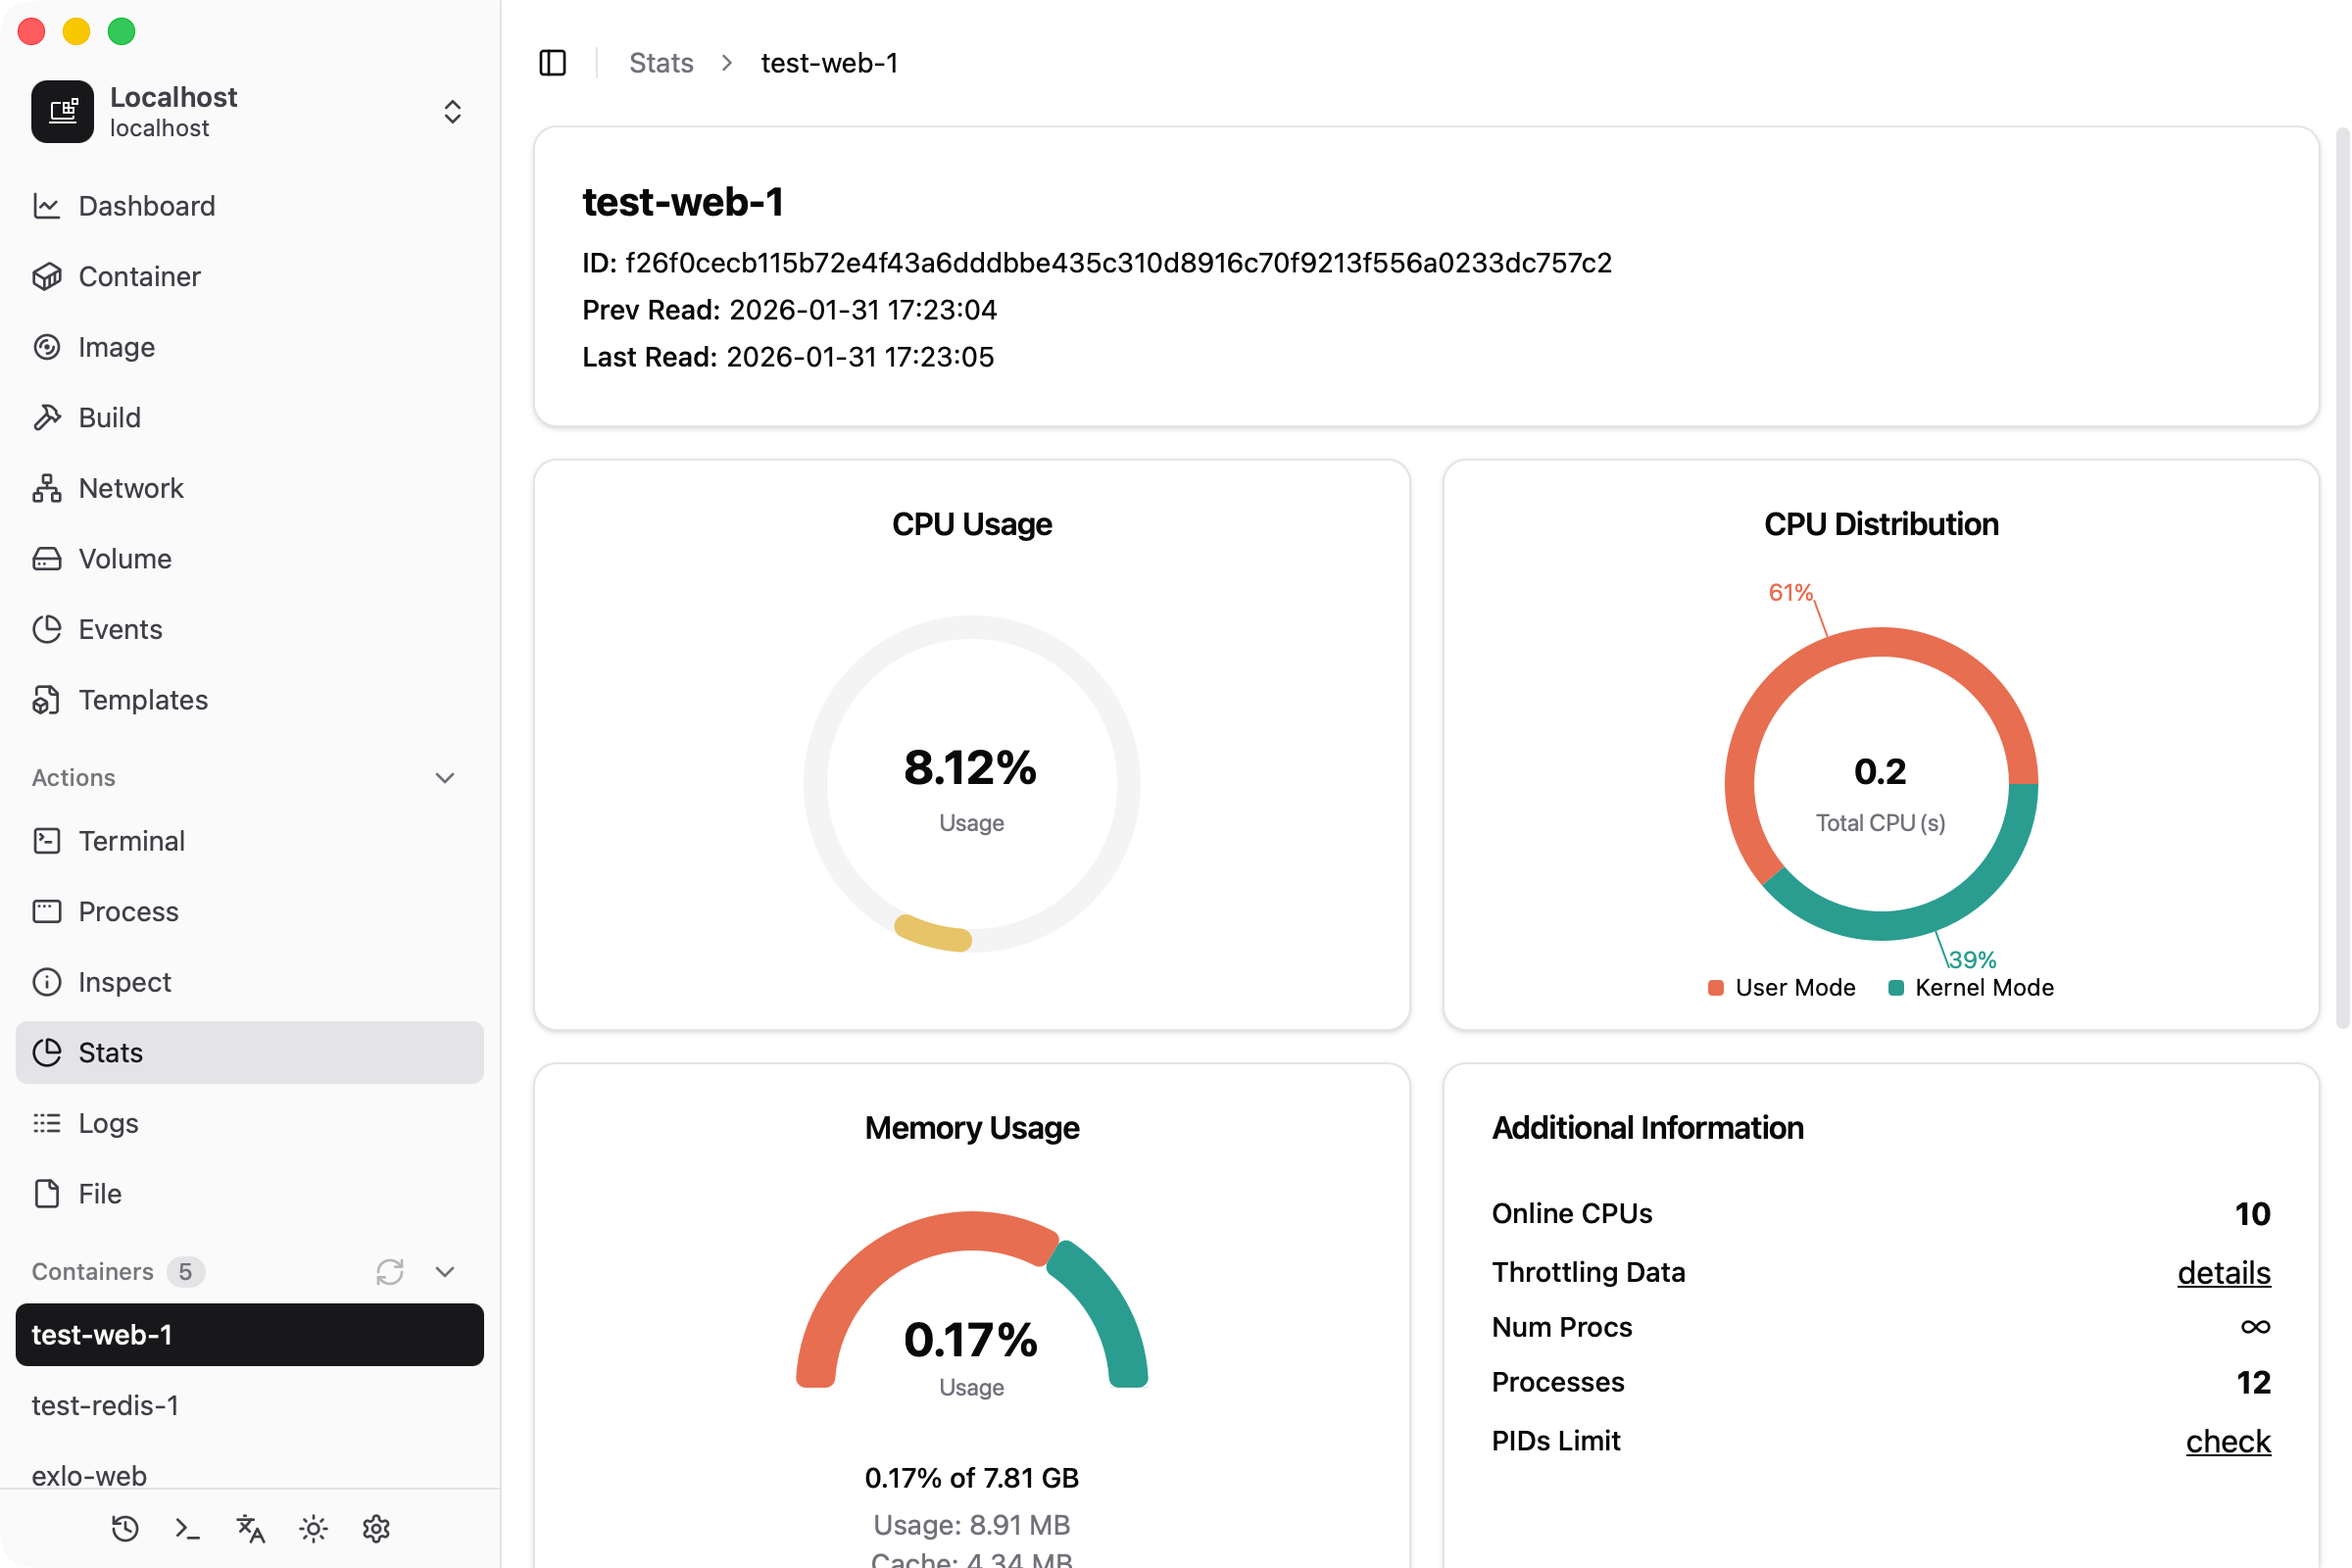
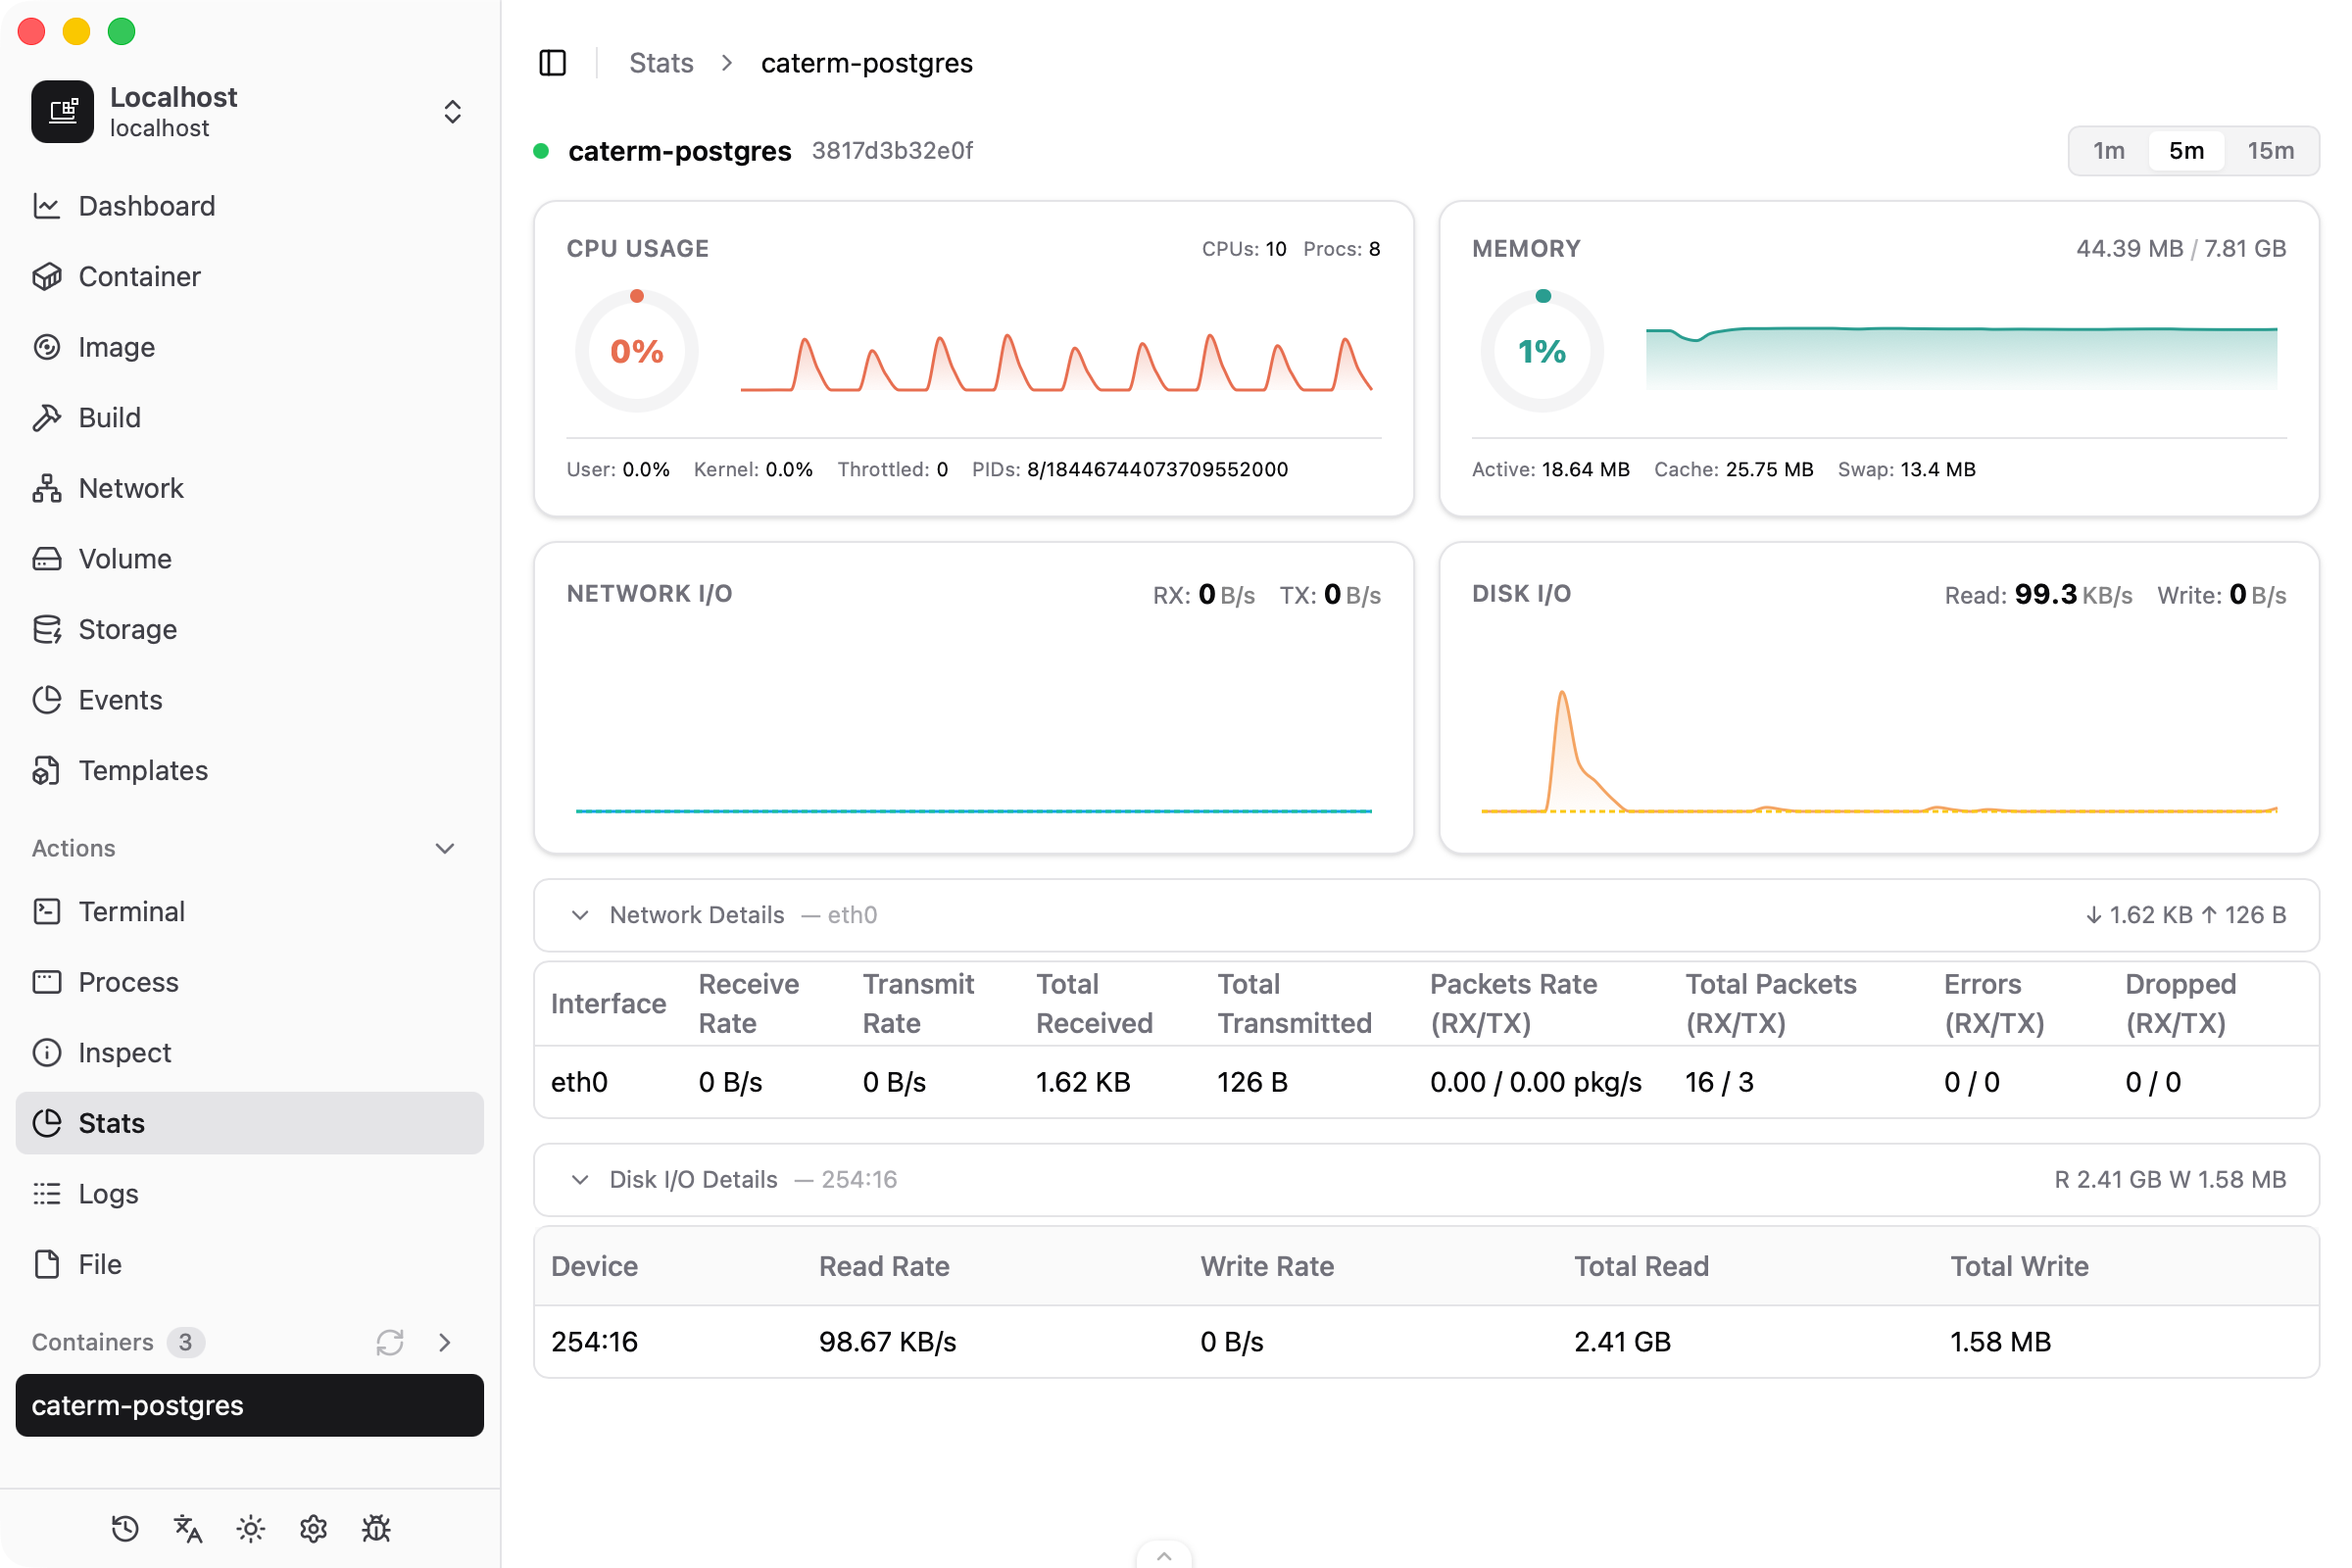
release: update version to v4.5.0 with stats page redesign
Update siteConfig, changelog (EN/ZH), README badges, features section,
and stats screenshot for the redesigned container resource monitoring dashboard.

diff --git a/apps/landing/src/app/siteConfig.ts b/apps/landing/src/app/siteConfig.ts
@@ -14,7 +14,7 @@ export const siteConfig = {
     privacy: '/privacy',
     terms: '/terms'
   },
-  latestVersion: '4.4.0'
+  latestVersion: '4.5.0'
 }
 
 export type siteConfig = typeof siteConfig

diff --git a/README.zh-CN.md b/README.zh-CN.md
@@ -2,8 +2,8 @@
 
 Language: [🇺🇸 English](./README.md) | 🇨🇳 简体中文
 
-[![Version](https://img.shields.io/badge/version-v4.4.0-blue.svg?style=flat-square)](https://github.com/dockerman/dockerman/releases/tag/v4.4.0)
-[![Release Date](https://img.shields.io/badge/release%20date-Mar%2011%2C%202026-green.svg?style=flat-square)](https://github.com/dockerman/dockerman/releases/tag/v4.4.0)
+[![Version](https://img.shields.io/badge/version-v4.5.0-blue.svg?style=flat-square)](https://github.com/dockerman/dockerman/releases/tag/v4.5.0)
+[![Release Date](https://img.shields.io/badge/release%20date-Mar%2021%2C%202026-green.svg?style=flat-square)](https://github.com/dockerman/dockerman/releases/tag/v4.5.0)
 
 一个现代、轻量级的 Docker 管理界面，使用 Tauri 和 Rust 构建。
 专注于简洁性和性能的 Docker 容器管理工具。
@@ -21,7 +21,7 @@ Language: [🇺🇸 English](./README.md) | 🇨🇳 简体中文
 ![Terminal Screenshot](apps/landing/public/screenshots/2.4.0/terminal.png)
 ![Process List Screenshot](apps/landing/public/screenshots/2.4.0/process.png)
 ![inspect Screenshot](apps/landing/public/screenshots/2.4.0/inspect.png)
-![stats Screenshot](apps/landing/public/screenshots/2.4.0/stat.png)
+![stats Screenshot](apps/landing/public/screenshots/stats.png)
 ![logs Screenshot](apps/landing/public/screenshots/logs.png)
 ![ssh Screenshot](apps/landing/public/screenshots/2.4.0/ssh.png)
 ![build Screenshot](apps/landing/public/screenshots/2.4.0/build-log.png)
@@ -71,11 +71,12 @@ Language: [🇺🇸 English](./README.md) | 🇨🇳 简体中文
   - 网络设置
   - 挂载点
   - 容器标签
-- 📊 资源监控
-  - CPU 使用率和分布
-  - 内存使用情况
-  - 网络统计
-  - 块 I/O 统计
+- 📊 资源监控，全新设计的统计页面
+  - 环形仪表盘显示 CPU 和内存使用率
+  - 迷你图表展示 CPU、内存、网络 I/O 和磁盘 I/O
+  - 时间范围选择器控制图表历史窗口
+  - 可折叠详情面板查看网络接口和磁盘设备
+  - 图表悬停提示显示格式化数值
 - 💻 集成终端访问
   - 终端主题选择器，支持颜色主题自定义
   - 可配置默认 shell 和用户

diff --git a/README.md b/README.md
@@ -2,8 +2,8 @@
 
 Language: 🇺🇸 English | [🇨🇳 简体中文](./README.zh-CN.md)
 
-[Version](https://github.com/dockerman/dockerman/releases/tag/v4.4.0)
-[Release Date](https://github.com/dockerman/dockerman/releases/tag/v4.4.0)
+[![Version](https://img.shields.io/badge/version-v4.5.0-blue.svg?style=flat-square)](https://github.com/dockerman/dockerman/releases/tag/v4.5.0)
+[![Release Date](https://img.shields.io/badge/release%20date-Mar%2021%2C%202026-green.svg?style=flat-square)](https://github.com/dockerman/dockerman/releases/tag/v4.5.0)
 
 A modern, lightweight Docker management UI built with Tauri and Rust.
 Focus on simplicity and performance for Docker container management.
@@ -21,7 +21,7 @@ Focus on simplicity and performance for Docker container management.
 ![Terminal Screenshot](apps/landing/public/screenshots/2.4.0/terminal.png)
 ![Process List Screenshot](apps/landing/public/screenshots/2.4.0/process.png)
 ![inspect Screenshot](apps/landing/public/screenshots/2.4.0/inspect.png)
-![stats Screenshot](apps/landing/public/screenshots/2.4.0/stat.png)
+![stats Screenshot](apps/landing/public/screenshots/stats.png)
 ![logs Screenshot](apps/landing/public/screenshots/logs.png)
 ![ssh Screenshot](apps/landing/public/screenshots/2.4.0/ssh.png)
 ![build Screenshot](apps/landing/public/screenshots/2.4.0/build-log.png)
@@ -71,11 +71,12 @@ Focus on simplicity and performance for Docker container management.
   - Network settings
   - Mount points
   - Container labels
-- 📊 Resource monitoring
-  - CPU usage and distribution
-  - Memory usage
-  - Network statistics
-  - Block I/O statistics
+- 📊 Resource monitoring with redesigned stats page
+  - Ring gauges for CPU and memory usage
+  - Sparkline charts for CPU, memory, network I/O, and disk I/O
+  - Time range selector for chart history
+  - Collapsible detail panels for network interfaces and disk devices
+  - Chart tooltips with formatted values
 - 💻 Integrated terminal access
   - Terminal theme picker with color theme customization
   - Configurable default shell and user
